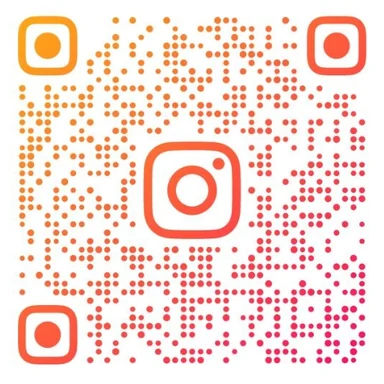
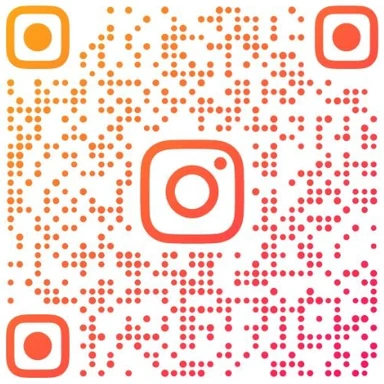
Instagram card: QR group order, single ink colour, bigger QR

diff --git a/style.css b/style.css
@@ -7497,14 +7497,14 @@ html.has-cursor .skill-row:hover .skill-row__logo svg.icon--grad { stroke: #fff;
   .pf-ig .pf-case__name { font-size: clamp(26px, 2.7vw, 52px); }
   /* QR block: the white tile (--pf-qr, scannable) inside a hand-drawn bracket frame, at the top of the stack. The label + curly arrow sit ABOVE the card (dark ink on the light Portfolio
      background); js/portfolio.js sets --qr-up (QR top -> card top) so the arrow starts over the card edge and ends in the frame. */
-  .pf-ig { --pf-qr: 110px; --pf-qrbox: calc(var(--pf-qr) + 26px); }
-  .pf-ig__qr { display: block; position: relative; margin: 0; color: #fff; --qr-up: 120px; --qr-sw: 2.5; }
+  .pf-ig { --pf-qr-n: 140; --pf-qr: calc(var(--pf-qr-n) * 1px); --pf-qrbox: calc(var(--pf-qr) + 26px); }
+  .pf-ig__qr { display: block; position: relative; margin: 0; color: var(--card-secondary); --qr-up: 120px; --qr-sw: 3; }
   .pf-qr__box { position: relative; display: block; inline-size: var(--pf-qrbox); block-size: var(--pf-qrbox); }
-  .pf-qr__box img { position: absolute; inset: 13px; inline-size: var(--pf-qr); block-size: var(--pf-qr); border-radius: 12px; background: #fff; object-fit: cover; }
+  .pf-qr__box img { position: absolute; inset: 13px; inline-size: var(--pf-qr); block-size: var(--pf-qr); box-sizing: border-box; padding: 16%; border-radius: 14px; background: #fff; object-fit: contain; }
   .pf-qr__frame { position: absolute; inset: 0; inline-size: 100%; block-size: 100%; overflow: visible; }
   .pf-qr__label { position: absolute; z-index: 2; inset-inline-start: calc(var(--pf-qrbox) * 0.72 + (var(--qr-up) + 4px) * 0.34); inset-block-start: calc(var(--qr-up) * -1 - 40px); white-space: nowrap; font-family: 'Caveat', 'Segoe Script', cursive; font-weight: 600; font-size: 25px; line-height: 1; color: var(--card-secondary); rotate: -4deg; transform-origin: 0 100%; }
   .pf-qr__arrow { position: absolute; z-index: 2; color: var(--card-secondary); inline-size: calc((var(--qr-up) + 4px) * 0.5); block-size: calc(var(--qr-up) + 4px); inset-inline-start: calc(var(--pf-qrbox) * 0.72 - (var(--qr-up) + 4px) * 0.12); inset-block-start: calc(var(--qr-up) * -1 - 6px); overflow: visible; }
-  .pf-qr__frame g { stroke-width: 2.5; }
+  .pf-qr__frame g { stroke-width: calc(3 * 152 / (var(--pf-qr-n) + 26)); }
   .pf-qr__arrow g { stroke-width: var(--qr-sw); }
   /* the stage is a size container (it stretches to the panel height): the phone is as tall as the panel + 0.9 insets (it overflows by ~0.45 inset on both sides) and at most 62% of the column wide */
   .pf-ig__stage { order: 1; position: relative; align-self: stretch; container-type: inline-size; }
@@ -7558,4 +7558,4 @@ html.has-cursor .skill-row:hover .skill-row__logo svg.icon--grad { stroke: #fff;
 /* the handwriting font of the Instagram QR label (self-hosted, Caveat 600, latin + latin-ext) */
 @font-face { font-family: 'Caveat'; font-style: normal; font-weight: 600; font-display: swap; src: url(assets/fonts/caveat-600-latin-ext.woff2) format('woff2'); unicode-range: U+0100-02BA, U+02BD-02C5, U+02C7-02CC, U+02CE-02D7, U+02DD-02FF, U+0304, U+0308, U+0329, U+1D00-1DBF, U+1E00-1E9F, U+1EF2-1EFF, U+2020, U+20A0-20AB, U+20AD-20C4, U+2113, U+2C60-2C7F, U+A720-A7FF; }
 @font-face { font-family: 'Caveat'; font-style: normal; font-weight: 600; font-display: swap; src: url(assets/fonts/caveat-600-latin.woff2) format('woff2'); unicode-range: U+0000-00FF, U+0131, U+0152-0153, U+02BB-02BC, U+02C6, U+02DA, U+02DC, U+0304, U+0308, U+0329, U+2000-206F, U+20AC, U+2122, U+2191, U+2193, U+2212, U+2215, U+FEFF, U+FFFD; }
-@media (min-width: 900px) and (max-width: 1100px) { .pf-ig { --pf-qr: 92px; } }
+@media (min-width: 900px) and (max-width: 1199px) { .pf-ig { --pf-qr-n: 120; } .pf-ig__copy { gap: var(--s1); } }

diff --git a/js/portfolio.js b/js/portfolio.js
@@ -126,7 +126,7 @@
           (IG.qr ? '<figure class="pf-ig__qr">' +
             '<span class="pf-qr__box">' +
               /* hand-drawn corner brackets (slightly irregular strokes, round caps); pathLength=1 so the draw-on can use dashoffset 1 -> 0 */
-              '<svg class="pf-qr__frame" viewBox="0 0 152 152" aria-hidden="true" focusable="false"><g fill="none" stroke="currentColor" stroke-width="2.5" stroke-linecap="round" stroke-linejoin="round">' +
+              '<svg class="pf-qr__frame" viewBox="0 0 152 152" aria-hidden="true" focusable="false"><g fill="none" stroke="currentColor" stroke-linecap="round" stroke-linejoin="round">' +
                 '<path class="pf-qr__c" d="M4 40 C3 30 4.5 18 6 11 C7.5 5.5 12 4 18 4.5 C26 5 33 3.5 41 4"/>' +
                 '<path class="pf-qr__c" d="M111 3.5 C119 4.5 127 3 134 5 C140 6.5 147.5 8 148 15 C148.5 22 147 31 148.5 40"/>' +
                 '<path class="pf-qr__c" d="M148 112 C147 120 149 128 147 135 C145.5 142 141 148 134 147.5 C126 147 119 148.5 111 148"/>' +
@@ -294,10 +294,11 @@
         var label = qrBox.querySelector('.pf-qr__label');
         gsap.set(label, { clipPath: 'inset(-10% 100% -10% 0)' });
         var dtl = gsap.timeline({ defaults: { ease: 'none' }, scrollTrigger: { trigger: igCard, start: 'top 88%', end: pinTop, scrub: true, invalidateOnRefresh: true } });
-        corners.forEach(function (el, i) { dtl.set(el, { opacity: 1 }, i * 0.25).to(el, { strokeDashoffset: 0, duration: 1 }, i * 0.25); });
-        dtl.to(label, { clipPath: 'inset(-10% -4% -10% 0)', duration: 0.9 }, 1.1)
-           .set(shaft, { opacity: 1 }, 2.0).to(shaft, { strokeDashoffset: 0, duration: 0.8 }, 2.0)
-           .set(head, { opacity: 1 }, 2.8).to(head, { strokeDashoffset: 0, duration: 0.3 }, 2.8);
+        /* order: label writes in -> arrow draws (shaft, then head) -> the 4 corner brackets (staggered) */
+        dtl.to(label, { clipPath: 'inset(-10% -4% -10% 0)', duration: 0.9 }, 0)
+           .set(shaft, { opacity: 1 }, 1.0).to(shaft, { strokeDashoffset: 0, duration: 0.8 }, 1.0)
+           .set(head, { opacity: 1 }, 1.8).to(head, { strokeDashoffset: 0, duration: 0.3 }, 1.8);
+        corners.forEach(function (el, i) { dtl.set(el, { opacity: 1 }, 2.1 + i * 0.25).to(el, { strokeDashoffset: 0, duration: 0.8 }, 2.1 + i * 0.25); });
       }
 
       return function () { stackOn = false; all.forEach(function (c) { c.style.visibility = ''; }); scheduleActive(); };
@@ -506,7 +507,7 @@
       if (qrEl && qrEl.offsetParent) {
         var up = Math.max(60, Math.round(qrEl.getBoundingClientRect().top - panel.getBoundingClientRect().top));
         qrEl.style.setProperty('--qr-up', up + 'px');
-        qrEl.style.setProperty('--qr-sw', (2.5 * 100 / (up + 4)).toFixed(2));
+        qrEl.style.setProperty('--qr-sw', (3 * 100 / (up + 4)).toFixed(2));
       }
       /* the slot is only as tall as the phone (+ 32px for its 3D overshoot) and pins vertically centred */
       igCard.style.setProperty('--pf-ig-slot-h', Math.round(Math.max(wrap.offsetHeight + 32, h + 2 * 16)) + 'px');

diff --git a/index.html b/index.html
@@ -45,7 +45,7 @@
         }
         </script>
 
-    <link rel="stylesheet" href="style.css?v=cr81">
+    <link rel="stylesheet" href="style.css?v=cr82">
 
     <link href="https://fonts.googleapis.com/css2?family=Montserrat:wght@400;700&family=Space+Grotesk:wght@500;700&family=Inter:wght@400;500;600&family=Syne:wght@700;800&family=Antonio:wght@500&family=Sacramento&display=swap" rel="stylesheet">
     <link rel="stylesheet" href="https://cdnjs.cloudflare.com/ajax/libs/font-awesome/6.4.0/css/all.min.css">
@@ -1112,7 +1112,7 @@
 <script src="js/about-story.js?v=13" defer></script>
 <script src="js/portfolio-data.js?v=2" defer></script>
 <script src="js/instagram-data.js?v=2" defer></script>
-<script src="js/portfolio.js?v=36" defer></script>
+<script src="js/portfolio.js?v=37" defer></script>
 <script src="script.js?v=81"></script>
 <script src="animations.js?v=13"></script>
 <script src="nav.js?v=9" defer></script>

diff --git a/myapproach.html b/myapproach.html
@@ -25,7 +25,7 @@
     }
     </script>
     <script>if (!window.matchMedia("(prefers-reduced-motion: reduce)").matches) document.documentElement.classList.add("ap-pre");</script>
-    <link rel="stylesheet" href="style.css?v=cr81">
+    <link rel="stylesheet" href="style.css?v=cr82">
     <link href="https://fonts.googleapis.com/css2?family=Montserrat:wght@400;700&family=Space+Grotesk:wght@500;700&family=Inter:wght@400;500;600&family=Syne:wght@700;800&family=Antonio:wght@500&family=Sacramento&display=swap" rel="stylesheet">
     <link rel="stylesheet" href="https://cdnjs.cloudflare.com/ajax/libs/font-awesome/6.4.0/css/all.min.css">
     <link rel="icon" href="/favicon.ico" sizes="any">

diff --git a/whatsappcontact.html b/whatsappcontact.html
@@ -26,7 +26,7 @@
         "serviceType": "Web Design"
     }
     </script>
-    <link rel="stylesheet" href="style.css?v=cr81">
+    <link rel="stylesheet" href="style.css?v=cr82">
     <link href="https://fonts.googleapis.com/css2?family=Montserrat:wght@400;500;700&family=Space+Grotesk:wght@500;700&family=Inter:wght@400;500;600&family=Syne:wght@700;800&family=Antonio:wght@500&family=Sacramento&display=swap" rel="stylesheet">
     <link rel="stylesheet" href="https://cdnjs.cloudflare.com/ajax/libs/font-awesome/6.4.0/css/all.min.css">
     <link rel="icon" href="/favicon.ico" sizes="any">

diff --git a/adatvedelem.html b/adatvedelem.html
@@ -24,7 +24,7 @@
         "serviceType": "Web Design"
     }
     </script>
-    <link rel="stylesheet" href="style.css?v=cr81">
+    <link rel="stylesheet" href="style.css?v=cr82">
     <link href="https://fonts.googleapis.com/css2?family=Montserrat:wght@400;700&family=Space+Grotesk:wght@500;700&family=Inter:wght@400;500;600&family=Syne:wght@700;800&family=Antonio:wght@500&family=Sacramento&display=swap" rel="stylesheet">
     <link rel="stylesheet" href="https://cdnjs.cloudflare.com/ajax/libs/font-awesome/6.4.0/css/all.min.css">
     <link rel="icon" href="/favicon.ico" sizes="any">

diff --git a/DESIGN-SYSTEM.md b/DESIGN-SYSTEM.md
@@ -231,3 +231,4 @@ One scroll choreography per entry, no layout animation (transform / opacity / st
 - Dialog scroll lock: only `html.pf-lock { overflow: hidden }` (+ measured scrollbar compensation); NEVER `overflow:hidden` on body (it becomes a scroll container and re-anchors the sticky Portfólió cards: the pinned card jumped ~21px on open).
 - Instagram card right column: one centred stack (QR with a hand-drawn SVG bracket frame, `Olvassa be!` label in self-hosted Caveat 600 (`assets/fonts/`, latin + latin-ext), curly arrow; title; description; INSTAGRAM button). The frame / label / arrow draw on with the scroll (GSAP ScrollTrigger scrub, card top 88% -> pinned, `strokeDashoffset` via `pathLength=1`, label clip-path reveal); static and complete with reduced motion / without GSAP; hidden on mobile and when the copy does not fit.
 - Instagram QR label + arrow: dark ink (`--card-secondary`) ABOVE the card (label on the light Portfolio background, the arrow crosses the card edge into the frame); JS (`sizePanel`) sets `--qr-up` (QR top -> card top) and the arrow is scaled uniformly with a compensated stroke. Draw-on: every stroke gets `stroke-dasharray = getTotalLength()`, offset length -> 0 (opacity 0 until its start so round caps leave no dot). QR tile `--pf-qr` 110px (92px at 900-1100px wide). The copy height uses `offsetHeight` (absolute label / arrow do not count), so the card height is the one of d386e69.
+- QR group: draw order label -> arrow -> 4 corners; one ink (`--card-secondary`), stroke 3px everywhere (corner width compensated for the frame scale via `--pf-qr-n`); tile 140px (>= 1200px) / 120px (900-1199), white quiet zone 16% (`padding: 16%` on the image); card height unchanged (490 / 630 px at 1518x670 / 1920x1080).
